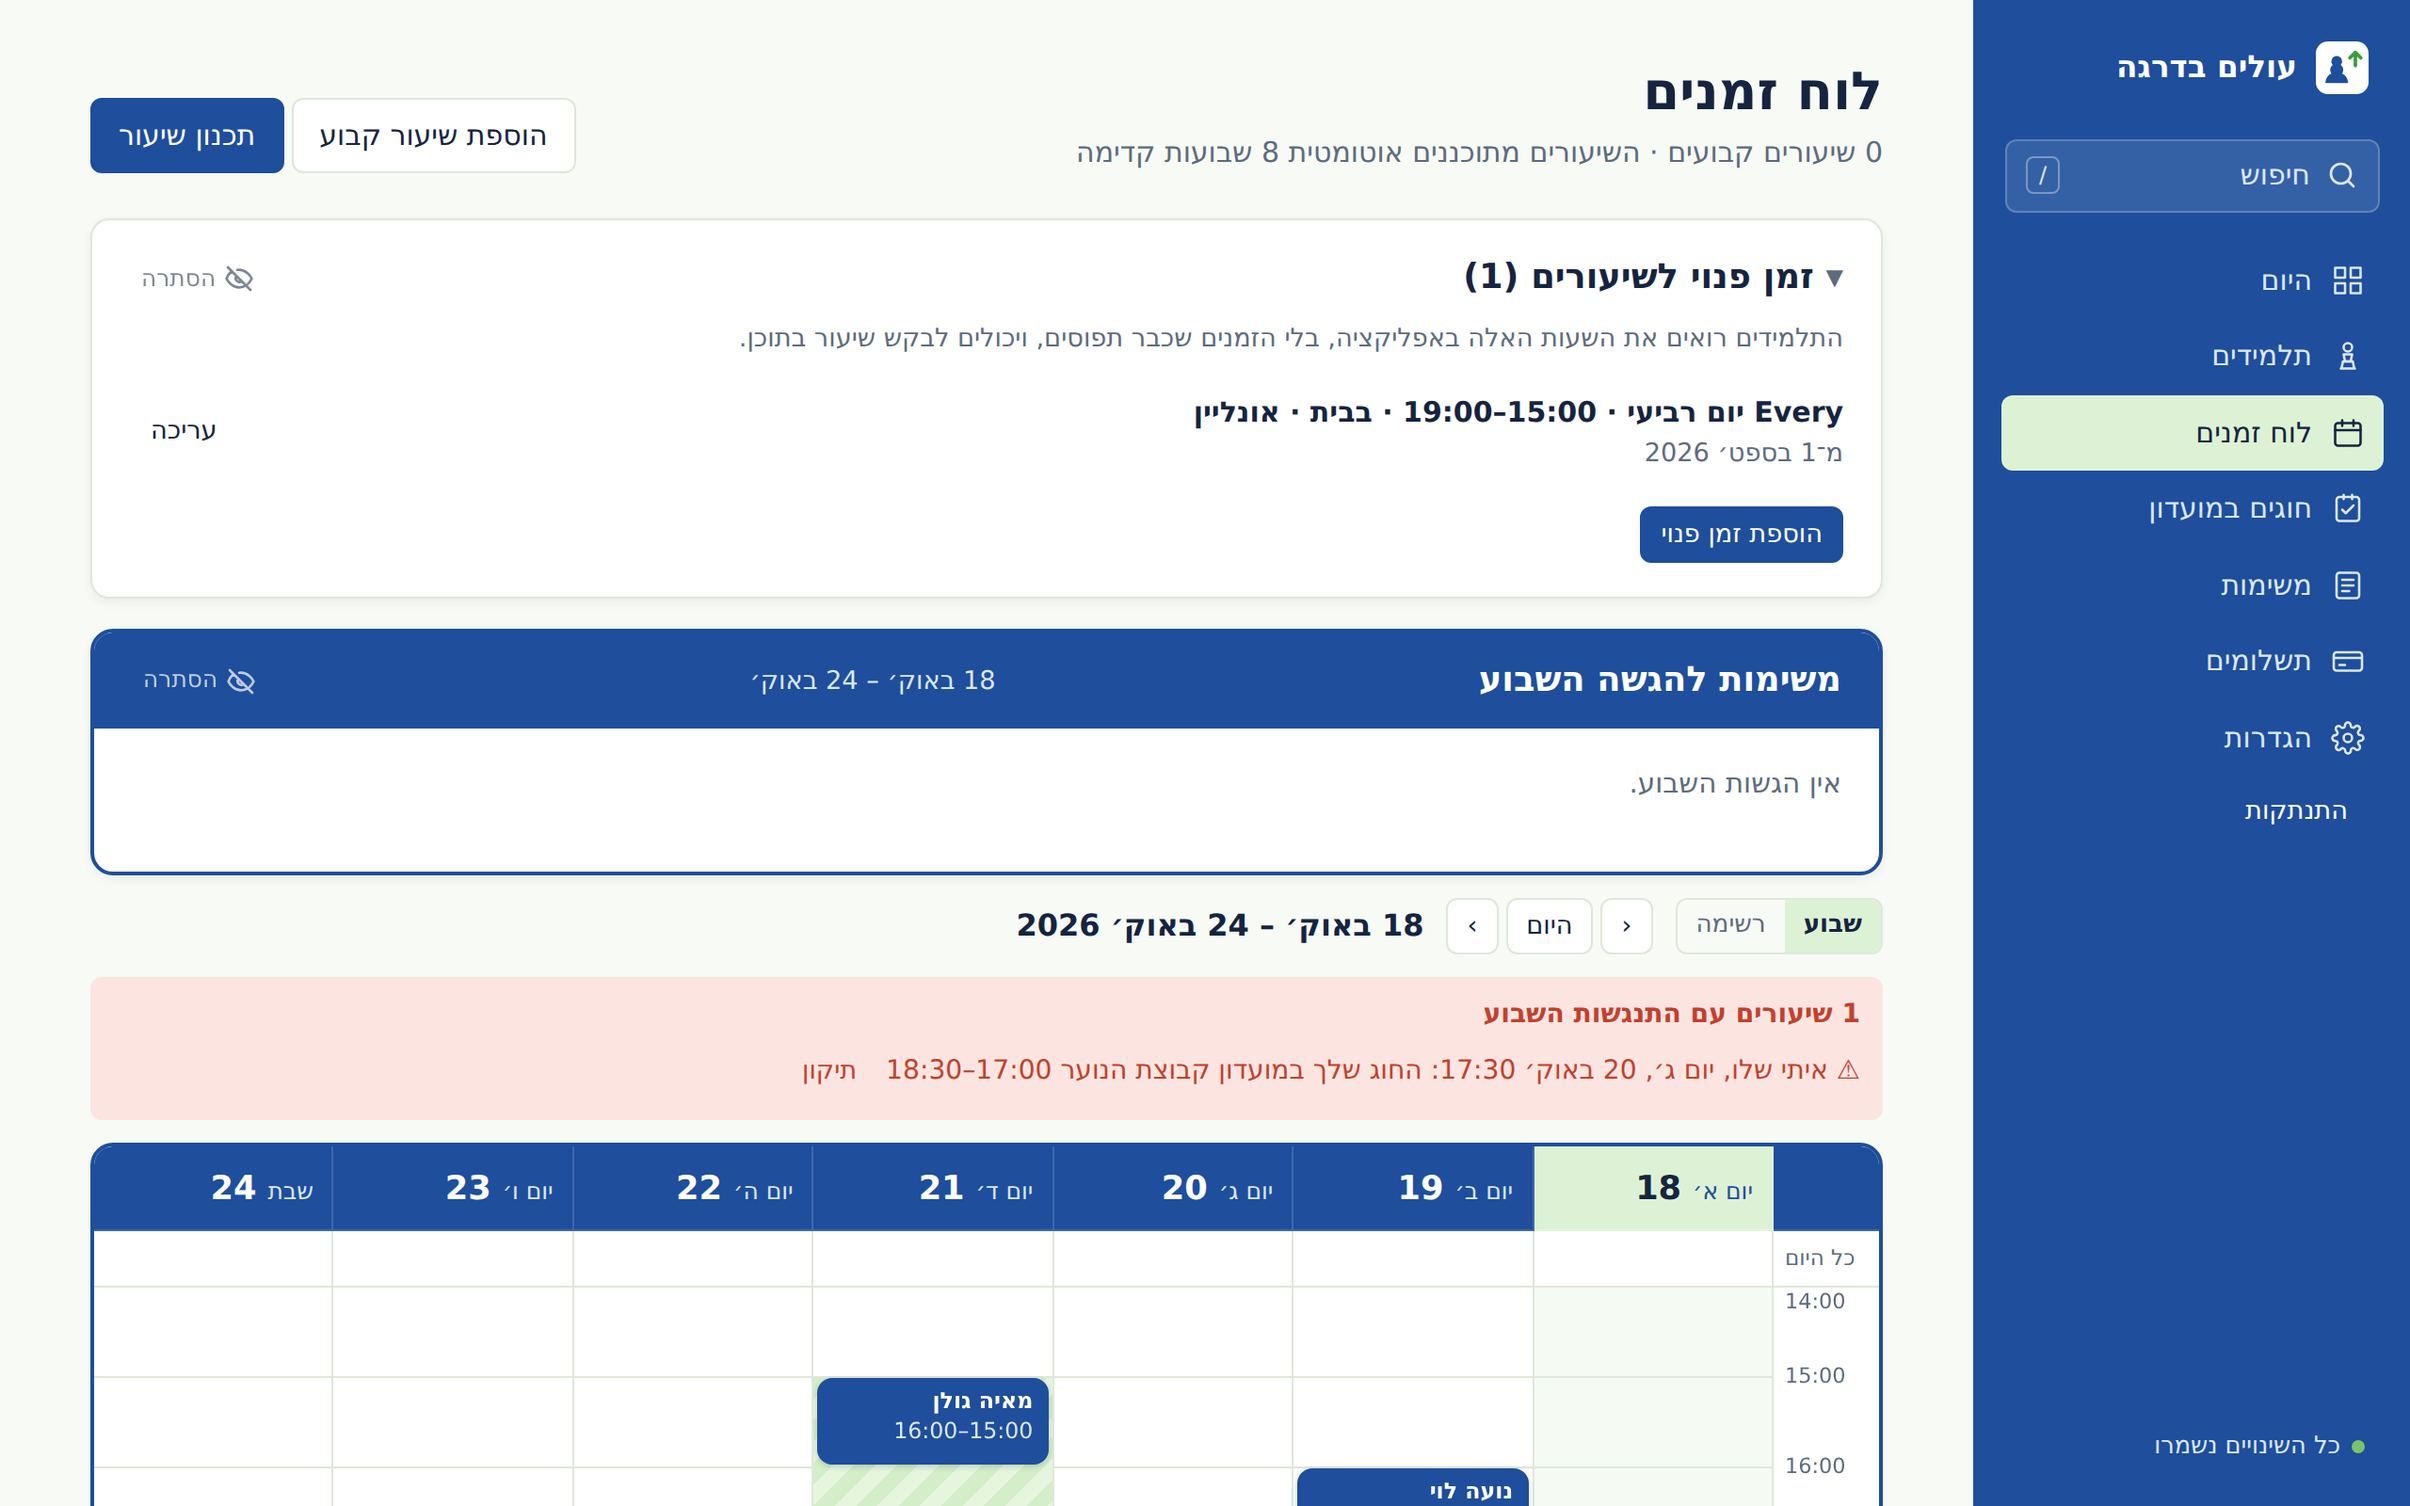
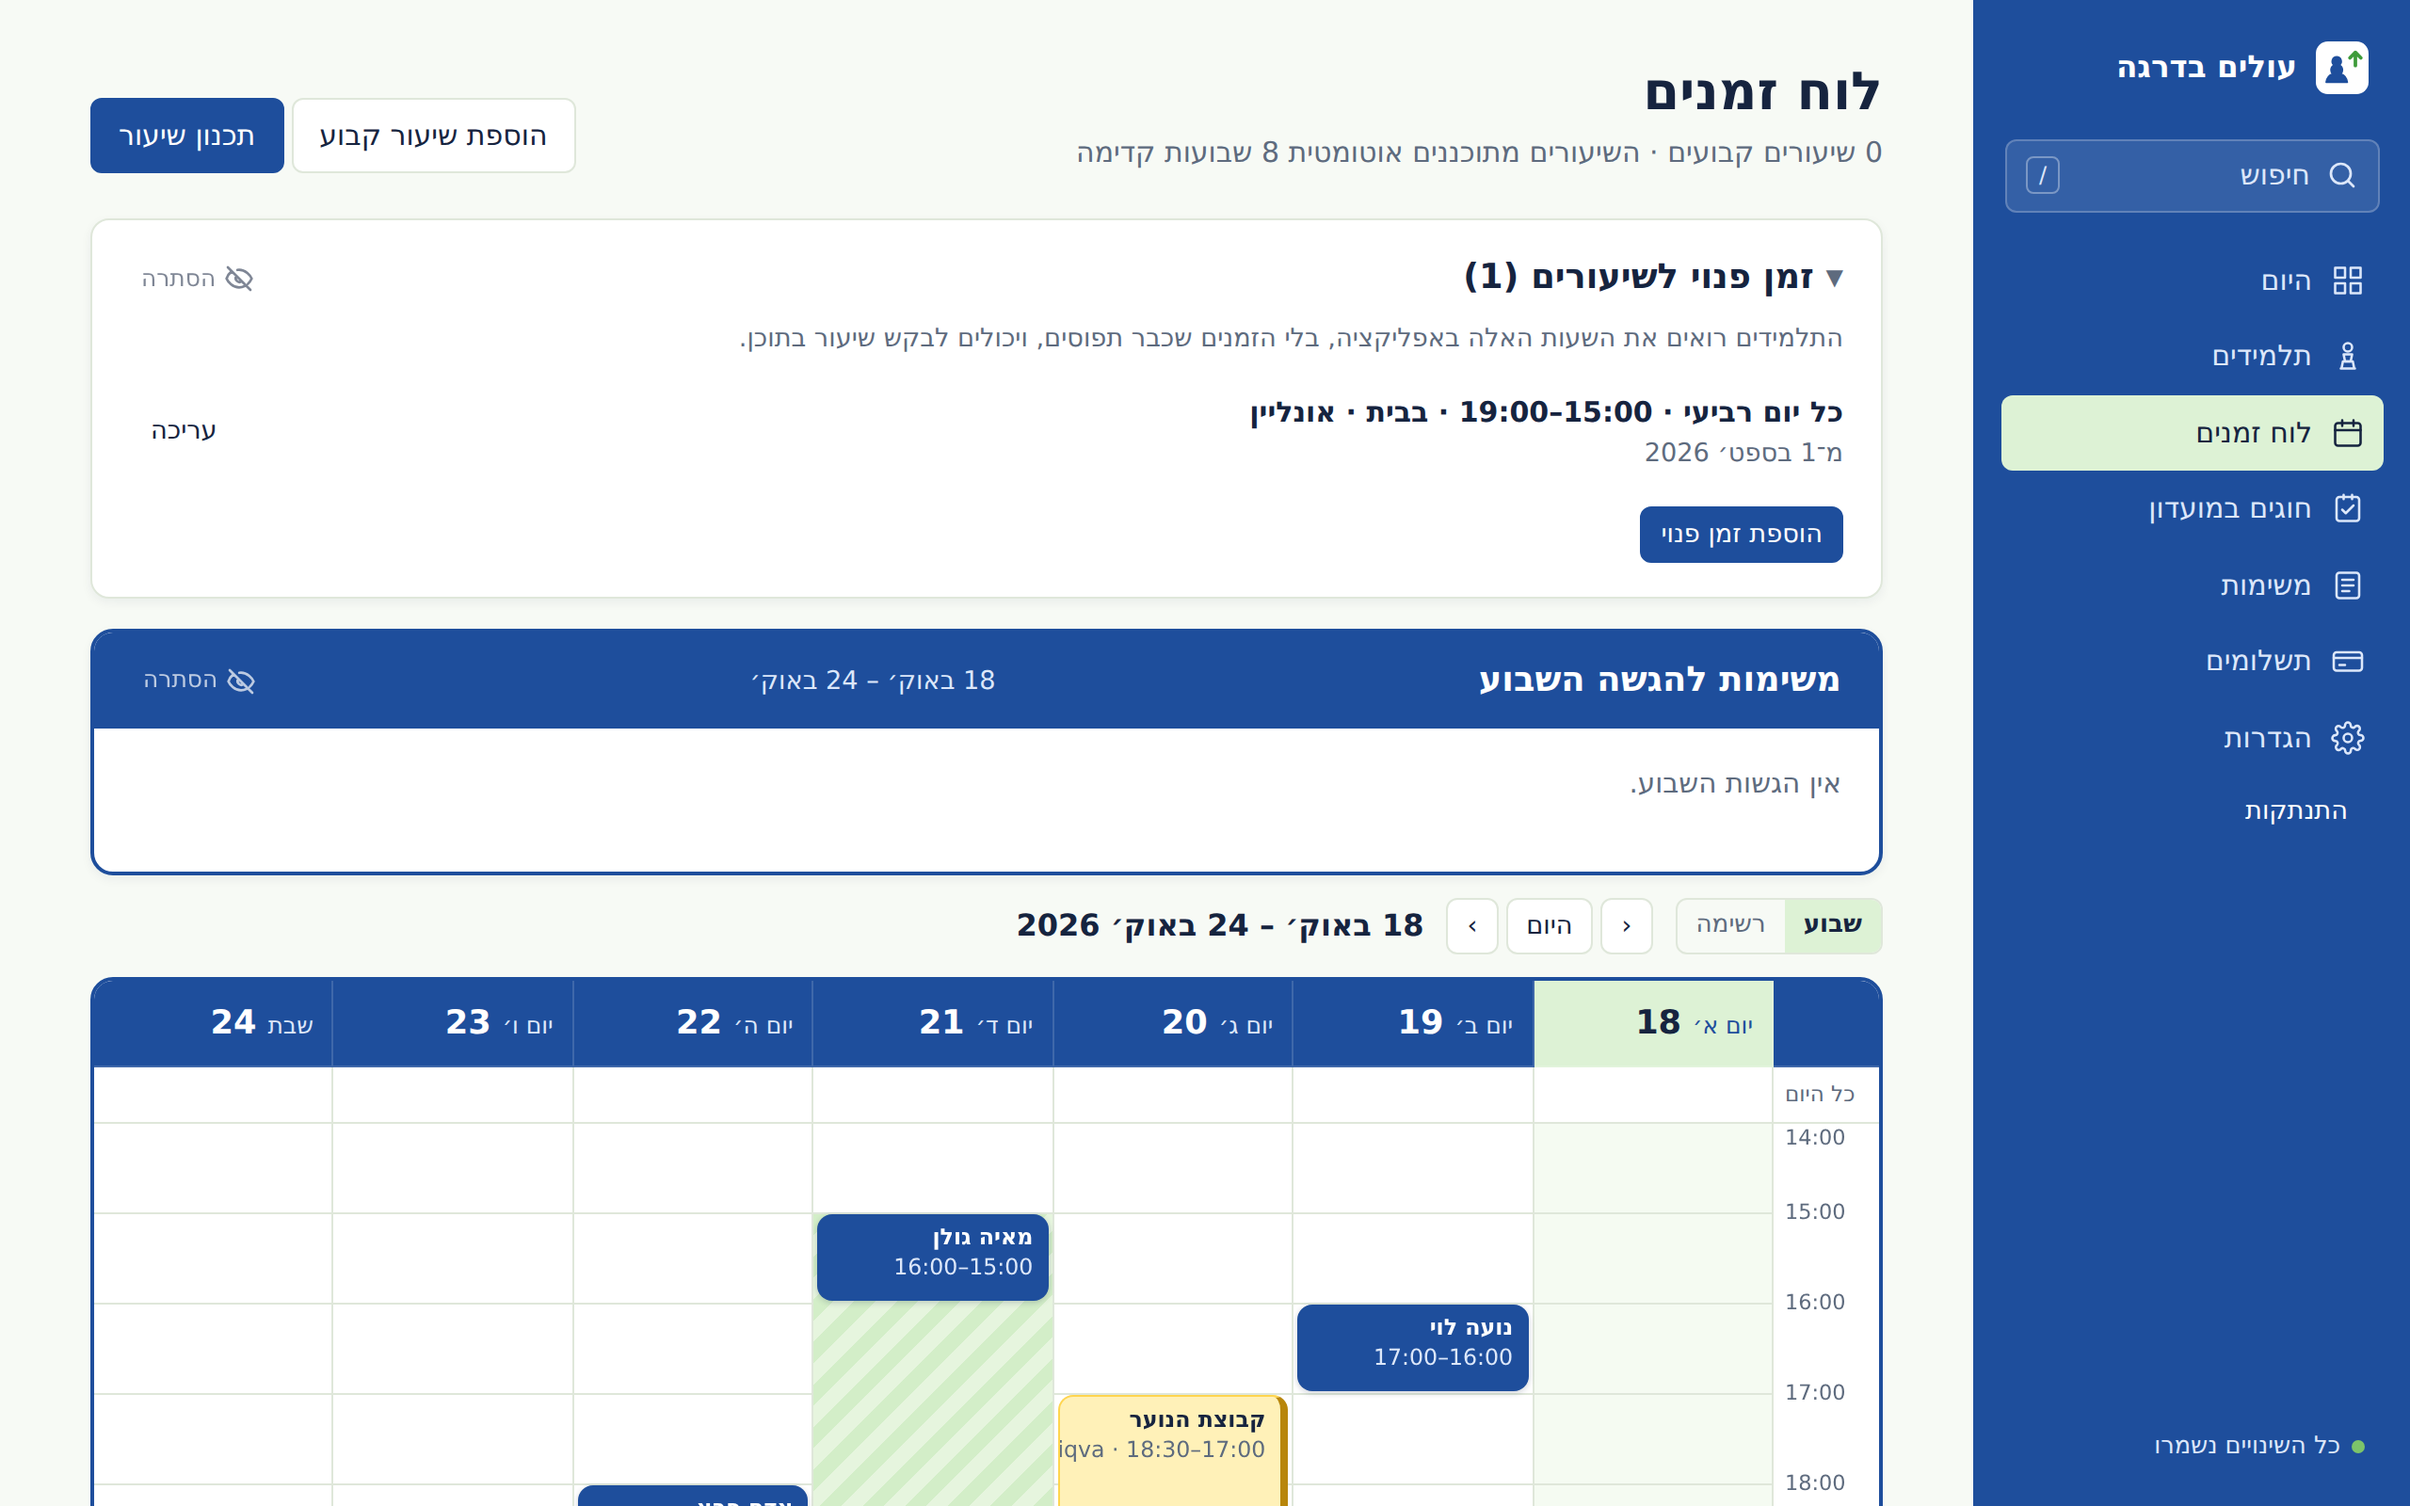
Public page: each of the coach's points shows its own screen; other names in the student and parent screens
Also fixes "Every" left in English in the free-time line when the app is in Hebrew.

Claude-Session: https://claude.ai/code/session_014MRjv4gCzUKZuuwYgW78sx

diff --git a/welcome/index.html b/welcome/index.html
@@ -102,6 +102,18 @@ section{padding:84px 0}
 .vdesk img,.vphone img{display:block;width:100%}
 .vphone{width:250px;margin:0 auto;border-radius:30px;overflow:hidden;border:8px solid var(--ink);box-shadow:0 24px 40px -14px rgba(22,36,63,.45);background:#fff}
 @media (max-width:820px){.vpanel{grid-template-columns:1fr;gap:28px;padding:26px 22px}.vtext h3{font-size:1.35rem}.vphone{width:220px}.vtab{padding:9px 16px}}
+.vpicks li.vpick{cursor:pointer;border-radius:12px;padding:8px 12px;margin-inline:-12px;transition:background .2s}
+.vpicks li.vpick:hover{background:var(--paper)}
+.vpicks li.vpick[aria-pressed="true"]{background:var(--blue-l);font-weight:600}
+.vpicks li.vpick:focus-visible{outline:2px solid var(--blue);outline-offset:2px}
+.vhint{font-size:.88rem!important;margin-top:12px!important}
+.vimgs{display:grid}
+.vimgs img{grid-area:1/1;opacity:0;transition:opacity .35s ease}
+.vimgs img.on{opacity:1}
+.vnav{display:flex;align-items:center;justify-content:center;gap:14px;margin-top:14px}
+.vstep{width:36px;height:36px;border-radius:50%;border:1px solid var(--line);background:#fff;font-size:1.3rem;line-height:1;cursor:pointer;color:var(--ink)}
+.vstep:hover{border-color:var(--blue)}
+.vdots{display:flex;gap:6px}.vdots i{width:8px;height:8px;border-radius:50%;background:var(--line)}.vdots i.on{background:var(--blue)}
 /* features */
 .feat{display:grid;grid-template-columns:repeat(4,1fr);gap:16px}
 .f{background:#fff;border:1px solid var(--line);border-radius:14px;padding:20px}
@@ -327,9 +339,9 @@ footer .wrap{display:flex;justify-content:space-between;flex-wrap:wrap;gap:12px}
 <section id="who"><div class="wrap">
   <div class="head"><h2 data-t="whoH">אפליקציה אחת - שלושה מסכים</h2><p data-t="whoP">כל אחד רואה בדיוק את מה שהוא צריך — ולא יותר.</p></div>
   <div class="views"><div class="vtabs" role="tablist"><button class="vtab c-blue" id="vt1" role="tab" aria-selected="true" aria-controls="vp1"><span>♚</span><span data-t="w1h">למאמן</span></button><button class="vtab c-green" id="vt2" role="tab" aria-selected="false" aria-controls="vp2"><span>♞</span><span data-t="w2h">לתלמיד</span></button><button class="vtab c-yellow" id="vt3" role="tab" aria-selected="false" aria-controls="vp3"><span>♛</span><span data-t="w3h">להורה</span></button></div>
-    <div class="vpanel c-blue" id="vp1" role="tabpanel" aria-labelledby="vt1"><div class="vtext"><div class="ic">♚</div><h3 data-t="w1h">למאמן</h3><p data-t="w1p">הלוח שמנהל את כל העבודה שלך.</p><ul><li data-t="w1a">התקדמות התלמיד - משימות, תרגול וכושר</li><li data-t="w1b">לוח זמנים שבועי - שיעורים, חוגים ותחרויות במקום אחד</li><li data-t="w1c">מעקב אחרי התקדמות כלל התלמידים</li><li data-t="w1d">מעקב תשלומים ויתרות לכל תלמיד</li></ul></div><div class="vshot"><div class="vdesk"><div class="bar"><i></i><i></i><i></i></div><img data-src="app-today" alt=""></div></div></div>
-    <div class="vpanel c-green" id="vp2" role="tabpanel" aria-labelledby="vt2" hidden><div class="vtext"><div class="ic">♞</div><h3 data-t="w2h">לתלמיד</h3><p data-t="w2p">כל מה שקשור לשחמט שלו, בטלפון.</p><ul><li data-t="w2a">רישום תרגול, כושר, שינה ומשחקים</li><li data-t="w2b">התקדמות - דירוג ורצפי תרגול</li><li data-t="w2c">לוח זמנים - השיעור הבא, תחרויות ובקשת שיעור</li><li data-t="w2d">משימות מהמאמן</li></ul></div><div class="vshot"><div class="vphone"><img data-src="app-student" alt=""></div></div></div>
-    <div class="vpanel c-yellow" id="vp3" role="tabpanel" aria-labelledby="vt3" hidden><div class="vtext"><div class="ic">♛</div><h3 data-t="w3h">להורה</h3><p data-t="w3p">שקיפות בלי טלפונים מיותרים.</p><ul><li data-t="w3a">לוח זמנים - השיעור הבא, בקשת שיעור, ביטול או הזזה</li><li data-t="w3b">תרגול ומשימות - מה הילד עשה השבוע</li><li data-t="w3c">הערות המאמן אחרי שיעור</li><li data-t="w3d">תשלומים - יתרה, פירוט חשבון ודיווח "שילמתי"</li></ul></div><div class="vshot"><div class="vphone"><img data-src="app-parent" alt=""></div></div></div>
+    <div class="vpanel c-blue" id="vp1" role="tabpanel" aria-labelledby="vt1"><div class="vtext"><div class="ic">♚</div><h3 data-t="w1h">למאמן</h3><p data-t="w1p">הלוח שמנהל את כל העבודה שלך.</p><ul class="vpicks"><li class="vpick" data-t="w1a" data-i="0" role="button" tabindex="0" aria-pressed="true">התקדמות התלמיד - משימות, תרגול וכושר</li><li class="vpick" data-t="w1b" data-i="1" role="button" tabindex="0" aria-pressed="false">לוח זמנים שבועי - שיעורים, חוגים ותחרויות במקום אחד</li><li class="vpick" data-t="w1c" data-i="2" role="button" tabindex="0" aria-pressed="false">מעקב אחרי התקדמות כלל התלמידים</li><li class="vpick" data-t="w1d" data-i="3" role="button" tabindex="0" aria-pressed="false">מעקב תשלומים ויתרות לכל תלמיד</li></ul><p class="vhint" data-t="vHint">לחצו על שורה כדי לראות את המסך</p></div><div class="vshot"><div class="vdesk"><div class="bar"><i></i><i></i><i></i></div><div class="vimgs" id="coachImgs"><img data-src="app-c1" alt="" class="on"><img data-src="app-c2" alt=""><img data-src="app-students" alt=""><img data-src="app-c4" alt=""></div></div><div class="vnav"><button type="button" class="vstep" data-d="-1" aria-label="previous">‹</button><span class="vdots"><i class="on"></i><i></i><i></i><i></i></span><button type="button" class="vstep" data-d="1" aria-label="next">›</button></div></div></div></div>
+    <div class="vpanel c-green" id="vp2" role="tabpanel" aria-labelledby="vt2" hidden><div class="vtext"><div class="ic">♞</div><h3 data-t="w2h">לתלמיד</h3><p data-t="w2p">כל מה שקשור לשחמט שלו, בטלפון.</p><ul><li data-t="w2a">רישום תרגול, כושר, שינה ומשחקים</li><li data-t="w2b">התקדמות - דירוג ורצפי תרגול</li><li data-t="w2c">לוח זמנים - השיעור הבא, תחרויות ובקשת שיעור</li><li data-t="w2d">משימות מהמאמן</li></ul></div><div class="vshot"><div class="vphone"><img data-src="app-v-student" alt=""></div></div></div>
+    <div class="vpanel c-yellow" id="vp3" role="tabpanel" aria-labelledby="vt3" hidden><div class="vtext"><div class="ic">♛</div><h3 data-t="w3h">להורה</h3><p data-t="w3p">שקיפות בלי טלפונים מיותרים.</p><ul><li data-t="w3a">לוח זמנים - השיעור הבא, בקשת שיעור, ביטול או הזזה</li><li data-t="w3b">תרגול ומשימות - מה הילד עשה השבוע</li><li data-t="w3c">הערות המאמן אחרי שיעור</li><li data-t="w3d">תשלומים - יתרה, פירוט חשבון ודיווח "שילמתי"</li></ul></div><div class="vshot"><div class="vphone"><img data-src="app-v-parent" alt=""></div></div></div>
   </div>
 </div></section>
 
@@ -448,7 +460,7 @@ const EN = {brand:"Rank Up", nWho:"Who it's for", nFeat:"What's included?", nHow
  lName:"Full name", lPhone:"Phone", lEmail:"Email", lCity:"City / area", lCount:"How many students do you have?", c1:"1–5", c2:"6–15", c3:"16–30", c4:"More than 30", lKind:"What do you teach?", k1:"Private lessons", k2:"Club classes", k3:"Both", lNote:"Anything you'd like us to know? (optional)", lOk:"I agree to be contacted about Rank Up", lSend:"Send my details", dH:"Thank you! We got your details.", dP:"We'll get back to you soon.",
  dmH:"Fewer messages, more chess", dmP:"A student asks for a lesson, the coach approves it, she practises — and the coach sees it all.", dm1h:"Noa asks for a lesson", dm1p:"From her phone, only at times the coach is really free.", dm2h:"The coach approves with one tap", dm2p:"The request waits on the home screen, with an alert.", dm3h:"Noa logs her practice", dm3p:"How many minutes, what she worked on, from which book.", dm4h:"The coach sees she practised", dm4p:"\"Updated today · practice\" — without asking.",
 
- waP:"Rather talk? Send a message:", waB:"Chat on WhatsApp",
+ vHint:"Click a line to see the screen", waP:"Rather talk? Send a message:", waB:"Chat on WhatsApp",
  mono:"RS", abE:"Who's behind Rank Up", abName:"Raem Sherman", abRole:"International Master and chess coach", ab1v:"7 years", ab1l:"private lessons", ab2v:"3 years", ab2l:"club classes",
  abWhy:"I built Rank Up to keep better track of each student's progress, and to make the whole coach–student relationship more pleasant and organized.",
  fnH:"Ready to rank up?", fnP:"First month free.", start4:"Start now", foot:"© 2026 Rank Up · עולים בדרגה", priv:"Privacy", contact:"Contact", signin2:"Open the app", lPriv:"Your details are used only to get back to you, and are never passed on.", lPrivL:"Privacy policy"};
@@ -469,6 +481,12 @@ setLang(new URLSearchParams(location.search).get("lang")==="en" ? "en" : "he");
   tabs.forEach((t,i)=>{ t.addEventListener("click", ()=>pick(t)); t.addEventListener("keydown", e=>{ const d={ArrowRight:-1,ArrowLeft:1}[e.key]*(document.dir==="rtl"?1:-1); if (!d) return;
     const n=tabs[(i+d+tabs.length)%tabs.length]; pick(n); n.focus(); }); });
   pick(tabs[0]); })();
+
+/* the coach's four points, each with its own screen */
+(()=>{ const picks=[...document.querySelectorAll(".vpick")], imgs=[...document.querySelectorAll("#coachImgs img")], dots=[...document.querySelectorAll(".vdots i")]; let cur=0;
+  const go=i=>{ cur=(i+picks.length)%picks.length; picks.forEach((p,j)=>p.setAttribute("aria-pressed", String(j===cur))); imgs.forEach((m,j)=>m.classList.toggle("on", j===cur)); dots.forEach((d,j)=>d.classList.toggle("on", j===cur)); };
+  picks.forEach((p,i)=>{ p.addEventListener("click", ()=>go(i)); p.addEventListener("keydown", e=>{ if (e.key==="Enter"||e.key===" "){ e.preventDefault(); go(i); } }); });
+  document.querySelectorAll(".vstep").forEach(b=>b.addEventListener("click", ()=>go(cur + +b.dataset.d))); })();
 
 /* the day-in-the-life demo: steps advance every 4.5s; clicking a step jumps to it and pauses */
 (()=>{

diff --git a/index.html b/index.html
@@ -6972,7 +6972,7 @@ function openSlots(from, to, sid){
 function freeLabel(r){
   const wd = n=>new Date(2024,0,7+(+n)).toLocaleDateString(LOCALE(),{weekday:"long"});
   if (r.kind==="off") return fmtDate(r.date,{weekday:"short",day:"numeric",month:"short"})+" · Day off";
-  return (r.kind==="weekly" ? "Every "+wd(r.weekday) : fmtDate(r.date,{weekday:"short",day:"numeric",month:"short"}))+" · "+r.from+"–"+r.to+(r.place ? " · "+r.place+(r.place2 && r.place2!==r.place ? " · "+r.place2 : "") : "");
+  return (r.kind==="weekly" ? (lang()==="he" ? "כל " : "Every ")+wd(r.weekday) : fmtDate(r.date,{weekday:"short",day:"numeric",month:"short"}))+" · "+r.from+"–"+r.to+(r.place ? " · "+r.place+(r.place2 && r.place2!==r.place ? " · "+r.place2 : "") : "");
 }
 function editFree(r){
   const isNew = !r, x = r || {id:uid(), kind:"weekly", date:today(), from:"16:00", to:"20:00", end:""};
